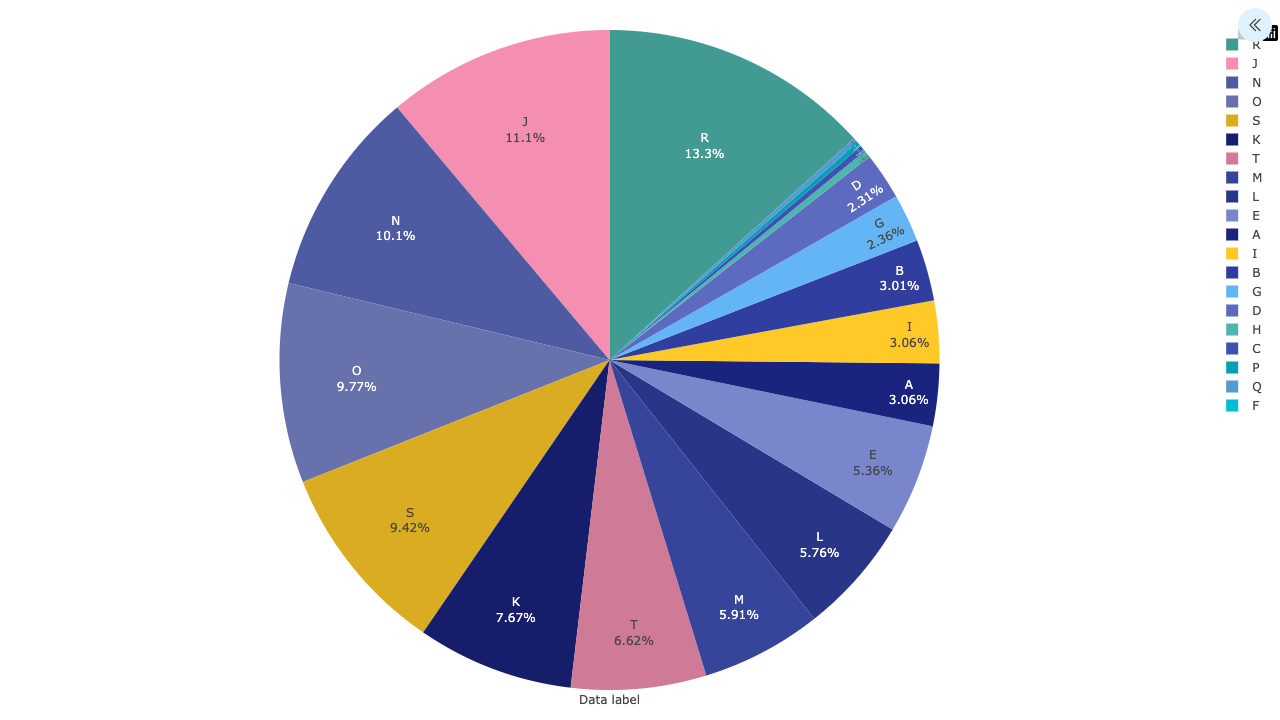
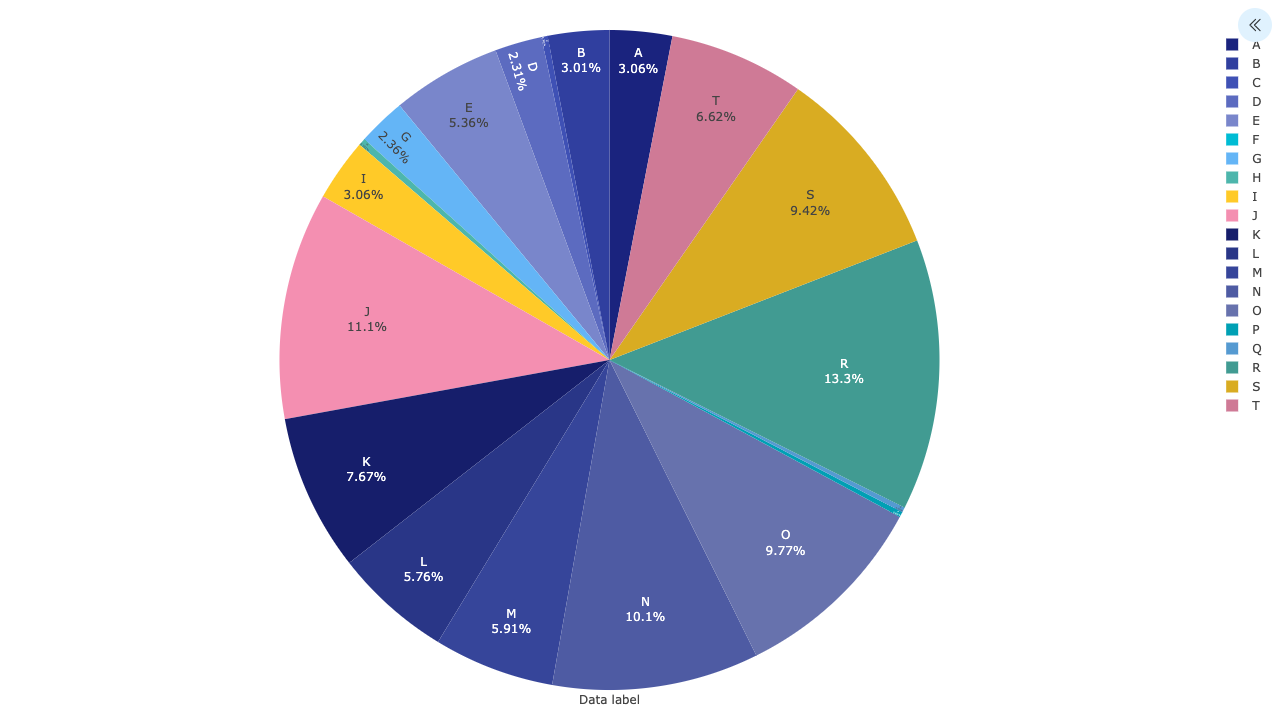
Add sorting option to plotly pie

diff --git a/packages/plotly/src/variants/pie.js b/packages/plotly/src/variants/pie.js
@@ -41,10 +41,11 @@ export default async function (datasetId, settings, tracks) {
     const rows = Math.ceil(count / columns);
     const annotations = [];
     const layout = {
+        annotations,
+        legend: { traceorder: "normal" },
         grid: { rows, columns, xgap: XGAP, ygap: YGAP },
         margin: { l: MARGIN, r: MARGIN, t: MARGIN, b: MARGIN },
         showlegend: Boolean(settings.showlegend),
-        annotations,
     };
     const config = { responsive: true };
     const data = [];
@@ -62,17 +63,18 @@ export default async function (datasetId, settings, tracks) {
                 ? generateColors(base, valueCount)
                 : undefined;
         data.push({
-            name: `${track.name} (${index + 1})`,
-            type: "pie",
+            automargin: true,
+            domain: { row, column },
+            hole: settings.hole,
             hoverinfo: settings.hoverinfo || "label+value+percent",
+            labels: columnsData.labels,
+            marker: { colors },
+            name: `${track.name} (${index + 1})`,
+            sort: Boolean(settings.sort),
             textinfo: settings.textinfo || "label+percent",
             textposition: "inside",
-            automargin: true,
-            hole: settings.hole,
-            labels: columnsData.labels,
+            type: "pie",
             values: columnsData.values,
-            marker: { colors },
-            domain: { row, column },
         });
         const x = (column + 0.5) * xDomainWidth + (column * XGAP) / columns;
         const y = 1 - ((row + 1) * yDomainHeight + (row * YGAP) / rows);
@@ -81,15 +83,15 @@ export default async function (datasetId, settings, tracks) {
             label = label.slice(0, maxChars - 1) + "…";
         }
         annotations.push({
-            text: label,
-            xref: "paper",
-            yref: "paper",
-            x,
-            y,
-            showarrow: false,
             font: { size: 12 },
+            showarrow: false,
+            text: label,
+            x,
             xanchor: "center",
+            xref: "paper",
+            y,
             yanchor: "top",
+            yref: "paper",
         });
     });
     return { data, layout, config };

diff --git a/packages/plotly/test.spec.js b/packages/plotly/test.spec.js
@@ -13,13 +13,16 @@ test("basic", async ({ page }) => {
         });
     });
 
-    await page.route("**/api/datasets/__test__?data_type=raw_data&provider=dataset-column&indeces=0%2C1", async (route) => {
-        await route.fulfill({
-            status: 200,
-            contentType: "application/json",
-            body: JSON.stringify(DATASET_COLUMNS_TEXT_NUMBER),
-        });
-    });
+    await page.route(
+        "**/api/datasets/__test__?data_type=raw_data&provider=dataset-column&indeces=0%2C1",
+        async (route) => {
+            await route.fulfill({
+                status: 200,
+                contentType: "application/json",
+                body: JSON.stringify(DATASET_COLUMNS_TEXT_NUMBER),
+            });
+        },
+    );
 
     await page.route("**/api/datasets/__test__?data_type=raw_data&provider=dataset-column&indeces=1", async (route) => {
         await route.fulfill({
